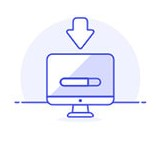
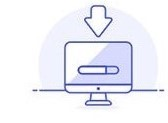
no message

Changed region(s): [[0.0769, 0.0244, 0.9744, 0.878]]

diff --git a/index.html b/index.html
@@ -15,7 +15,7 @@
 
           <div class="container-aus-david center-img ">
               <div class="box">
-                  <img src="images/page2-img1.jpg" class="page2-img"><br/>
+                  <img src="images/page2-img1.jpg" class="page2-img"><br/> 
                   <div class="co-t-gray text-position">
                       <h3>1 Download Template</h3>
                       <p>

diff --git a/styles.css b/styles.css
@@ -95,9 +95,12 @@ body, html {
 .page2-img {
     grid-area: photo;
     height: 50%;
-    width: 70%;
+    width: 90%;
     background-position: center;
+    margin-right: 50px;
+
 }
+
 
 .yellow-btn {
     padding: 10px 15px 10px 15px;
